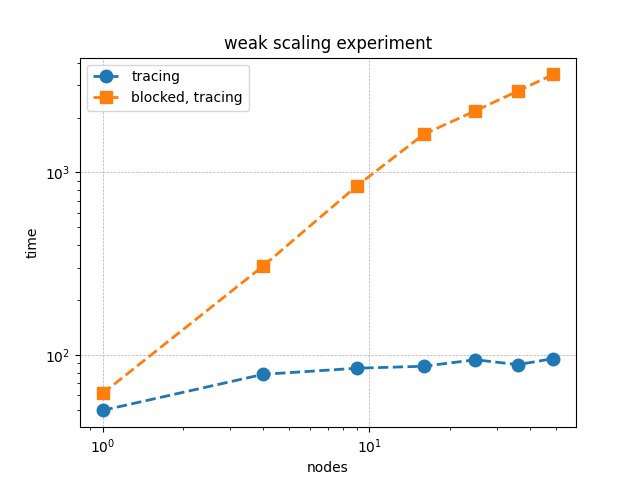
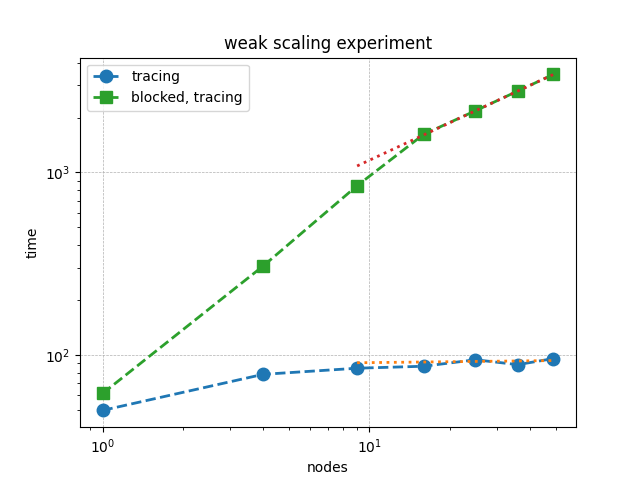
respond to reviewer comments

diff --git a/doc/sphinx/src/user-guide/blocking.rst b/doc/sphinx/src/user-guide/blocking.rst
@@ -2,10 +2,10 @@ Performance Effect of `get()` Outside of a Task
 ++++++++++++++++++++++++++++++++++++++++++++++++++++++
 
 This is a weak scaling plot for a
-Red-Black Gauss-Seidel iterative solver of Poisson's Equation.
-The orange squares are the weak scaling results when `get()` is used outside of a task.
-Already at fifty nodes there is a 30X performance difference.  The solution time
-without `get()` scales as `nodes^0.7`.  So this difference will only get worse.
+Red-Black Gauss-Seidel iterator for Poisson's Equation.
+The green squares are the weak scaling results when `get()` is used outside of a task.
+Already at fifty nodes there is a 30X performance difference.  This blocked solution time
+scales as :math:`\left(\texttt{nodes}\right)^{0.7}`.  So this difference will only get worse.
 
 .. image:: blocking/blocked_vs_nonblocking.png
 
@@ -60,7 +60,7 @@ Removing Bulk-Synchronousity from Your Code
 
 Here we pass the future to the `print_residual` task.  Calling `get()` inside
 a task is correct as it allows the runtime to continue with other tasks while
-`print_resicual` is waiting on the reduction.
+`print_residual` is waiting on the reduction.
 
 .. code-block:: c++
   :caption: Red-Black Gauss-Seidel non-blocking, no tracing
@@ -86,6 +86,10 @@ a task is correct as it allows the runtime to continue with other tasks while
     execute<task::print_residual>(residual, ita+sub);
 
   } while(ita < max_iterations.value());
+
+.. note:: 
+  Residual tolerance termination conditions are usually employed for solvers, but
+  FleCSI does not yet support futures in this way.
 
 .. code-block:: c++
   :caption: `print_residual` task

diff --git a/doc/sphinx/src/user-guide/tracing.rst b/doc/sphinx/src/user-guide/tracing.rst
@@ -4,17 +4,17 @@ Performance Effect of Tracing
 The performance affect of using tracing cannot be overstated.
 
 This is a weak scaling plot for a
-Red-Black Gauss-Seidel iterative solver of Poisson's Equation.
-The orange squares are the weak scaling results without tracing and blue circles are with tracing.
+Red-Black Gauss-Seidel iterator for Poisson's Equation.
+The blue circles are the weak scaling results without tracing and green squares are with tracing.
 Already at fifty nodes there is a 20X performance difference.  The solution time
-without tracing scales as `nodes^0.7`.  So this difference will only get worse.
+without tracing scales as :math:`\left(\texttt{nodes}\right)^{0.7}`.  So this difference will only get worse.
 
 .. image:: tracing/tracing_vs_no_tracing.png
 
 Implementing Tracing in Your Code
 ++++++++++++++++++++++++++++++++++++
 
-Here is the solver loop without tracing.
+Here is the iteration loop without tracing.
 
 .. code-block:: c++
   :caption: Red-Black Gauss-Seidel non-blocking, no tracing
@@ -36,6 +36,10 @@ Here is the solver loop without tracing.
     execute<task::print_residual>(residual, ita+sub);
 
   } while(ita < max_iterations.value());
+
+.. note:: 
+  Residual tolerance termination conditions are usually employed for solvers, but
+  FleCSI does not yet support futures in this way.
 
 .. note:: 
   These loops contain `flecsi::execute<>` task launches. Any such loops in your code
